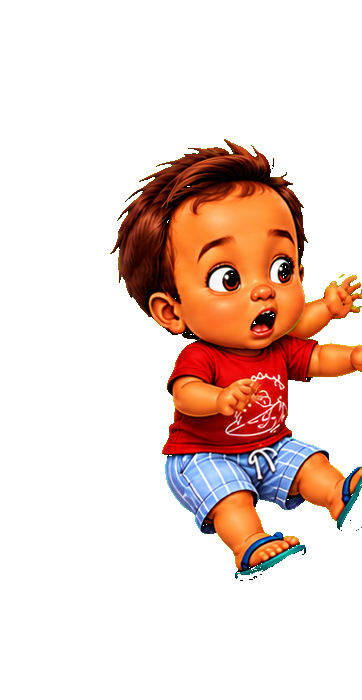
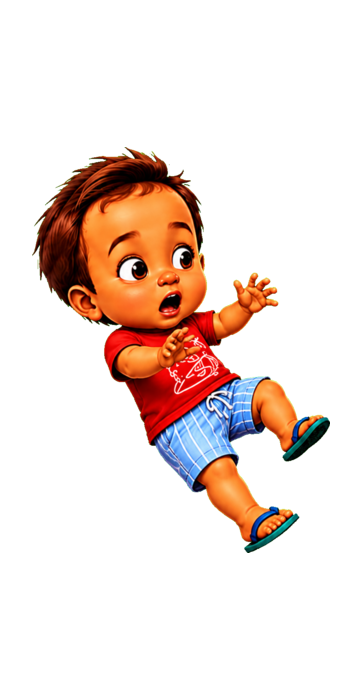
Ajusta o atlas para a arte regerada e normaliza escala e chão
Os 12 PNGs trocados vieram sem corte nas bordas, que era o problema
original: nenhum pixel encosta na borda em nenhum arquivo do conjunto
agora. Mas vieram desenhados menores e desalinhados verticalmente, o
que fazia o personagem encolher e flutuar no meio da animação.

Cada quadro do ATLAS passa a ter duas caixas:

  f = de onde ler os pixels no PNG
  g = onde o quadro deve aparecer, quando difere de f

Para quadro sem problema, g não existe e vale f. Para os regerados, g
aplica o fator medido comparando com a versão anterior do mesmo arquivo,
que está no histórico do git: como a pose é a mesma, a razão entre as
alturas dá a escala e a diferença das bases dá o desalinhamento. Assim a
correção não depende de eu chutar valor a olho, e não toca na arte.

Conferido quadro a quadro renderizando cada sequência com a linha do
chão: base entre 0 e -19px do chão (o -19 é a pose inclinada dela no
primeiro quadro, igual ao original), alturas consistentes dentro de cada
animação, e o abraço final sem o corte no braço do bebê.

diff --git a/game.js b/game.js
@@ -144,26 +144,30 @@ const BG_TOP = CFG.GROUND_Y - CFG.BG_H * CFG.BG_GROUND_FRAC;
 /* ========================================================================== *
  * 2. ATLAS — recorte real de cada PNG
  *    u = retângulo de referência da sequência (união dos quadros)
- *    f = [x, y, w, h] do corpo em cada quadro (sobras soltas já removidas)
+ *    f = [x, y, w, h] do corpo em cada quadro: de ONDE ler os pixels
+ *        (sobras soltas nas bordas já removidas)
+ *    g = onde esse quadro deve APARECER, quando difere de f. Existe porque
+ *        alguns arquivos foram regerados fora de escala e desalinhados: g
+ *        devolve o tamanho e a linha do chão corretos sem tocar na arte.
  *    p = raiz quadrada da área desenhada, usada para normalizar o tamanho
  *    Valores medidos direto do canal alfa dos arquivos.
  * ========================================================================== */
 const ATLAS = {
   'filho-comemorando-fuga': { n: 5, u: [31,39,322,566], p: 265.3, f: [[39,122,311,480],[88,98,263,506],[70,99,278,506],[68,39,285,480],[31,128,291,472]] },
-  'filho-correndo-jogando-brinquedo': { n: 5, u: [0,112,355,477], p: 250.0, f: [[27,112,264,471],[0,116,292,454],[0,125,295,460],[4,130,351,459],[52,129,268,459]] },
-  'filho-correndo-jogando-fralda': { n: 5, u: [0,75,393,515], p: 272.1, f: [[30,75,283,509],[0,79,314,490],[0,88,312,498],[0,94,393,496],[39,93,293,497]] },
+  'filho-correndo-jogando-brinquedo': { n: 5, u: [0,112,342.8,477], p: 251.3, f: [[27,112,264,471],[0,116,292,454],[0,125,295,460],[32,148,291,404],[52,129,268,459]], g: [[27,112,264,471],[0,116,292,454],[0,125,295,460],[12.2,130,330.6,459],[52,129,268,459]] },
+  'filho-correndo-jogando-fralda': { n: 5, u: [0,75,375.8,515], p: 272.5, f: [[30,75,283,509],[0,79,314,490],[0,88,312,498],[32,122,329,455],[39,93,293,497]], g: [[30,75,283,509],[0,79,314,490],[0,88,312,498],[17.2,94,358.6,496],[39,93,293,497]] },
   'filho-correndo-rindo': { n: 4, u: [0,47,408,579], p: 313.3, f: [[0,50,341,568],[52,48,356,578],[18,47,386,569],[1,52,377,562]] },
   'filho-corrento': { n: 6, u: [7,92,245,438], p: 229.3, f: [[23,110,219,410],[15,96,232,407],[20,92,232,406],[55,125,189,405],[31,108,211,412],[7,109,237,407]] },
   'filho-parado': { n: 4, u: [38,40,326,619], p: 311.1, f: [[112,41,252,618],[94,40,247,619],[66,41,242,618],[38,41,252,618]] },
   'filho-sendo-pego': { n: 5, u: [29,43,366,588], p: 290.9, f: [[29,99,366,532],[31,90,364,539],[43,85,318,545],[50,56,290,502],[64,43,294,514]] },
-  'filho-tropecando': { n: 6, u: [25,122,337,463], p: 242.7, f: [[42,124,313,461],[110,139,252,442],[100,212,262,370],[59,207,299,369],[74,216,261,356],[25,122,309,458]] },
-  'mae-atingida-por-objeto': { n: 5, u: [14,68,421,535], p: 299.7, f: [[79,81,338,521],[40,68,395,534],[47,74,339,523],[15,76,382,527],[14,83,339,519]] },
-  'mae-cansada': { n: 5, u: [0,79,397,540], p: 299.0, f: [[58,79,338,533],[87,107,310,511],[59,86,323,533],[26,221,326,396],[0,205,342,409]] },
+  'filho-tropecando': { n: 6, u: [15.9,122,342.1,463], p: 243.4, f: [[42,124,313,461],[32,147,298,406],[32,183,298,334],[59,207,299,369],[74,216,261,356],[25,122,309,458]], g: [[42,124,313,461],[18.8,139,324.4,442],[15.9,212,330.1,370],[59,207,299,369],[74,216,261,356],[25,122,309,458]] },
+  'mae-atingida-por-objeto': { n: 5, u: [10.7,68,413.6,535], p: 300.5, f: [[79,81,338,521],[32,110,371,479],[47,74,339,523],[15,76,382,527],[14,83,339,519]], g: [[79,81,338,521],[10.7,68,413.6,534],[47,74,339,523],[15,76,382,527],[14,83,339,519]] },
+  'mae-cansada': { n: 5, u: [0,79,396,540], p: 298.2, f: [[58,79,338,533],[32,80,333,539],[59,86,323,533],[26,221,326,396],[0,205,342,409]], g: [[58,79,338,533],[40.6,107,315.7,511],[59,86,323,533],[26,221,326,396],[0,205,342,409]] },
   'mae-correndo': { n: 6, u: [0,96,336,493], p: 269.8, f: [[31,104,305,476],[31,96,292,462],[40,117,270,468],[16,105,282,456],[0,127,288,455],[10,123,284,466]] },
   'mae-parada': { n: 4, u: [25,25,390,642], p: 325.8, f: [[127,25,288,642],[96,28,286,639],[52,26,286,641],[25,49,288,618]] },
-  'mae-pegando-filho': { n: 5, u: [28,52,407,548], p: 298.6, f: [[28,76,407,484],[143,119,292,457],[108,55,327,542],[102,55,317,545],[58,52,305,548]] },
+  'mae-pegando-filho': { n: 5, u: [-18.8,52,472.5,548], p: 306.5, f: [[32,160,371,380],[32,103,371,494],[32,72,371,556],[102,55,317,545],[58,52,305,548]], g: [[-18.8,76,472.5,484],[45.9,119,343.2,457],[36.7,55,361.7,542],[102,55,317,545],[58,52,305,548]] },
   'mae-pulando': { n: 5, u: [26,36,377,576], p: 265.5, f: [[107,203,296,400],[51,121,324,447],[52,36,323,416],[26,129,356,448],[43,193,301,419]] },
-  'mae-tropecando': { n: 6, u: [0,119,362,465], p: 265.5, f: [[31,119,331,465],[0,124,352,443],[3,144,359,435],[28,241,334,325],[12,216,322,356],[0,121,302,462]] },
+  'mae-tropecando': { n: 6, u: [-35,119,432.1,465], p: 272.5, f: [[32,175,298,350],[0,124,352,443],[32,200,298,300],[32,201,298,298],[12,216,322,356],[0,121,302,462]], g: [[-17,119,395.9,465],[0,124,352,443],[-35,144,432.1,435],[18.5,241,325,325],[12,216,322,356],[0,121,302,462]] },
   'obstaculo-almofadas': { n: 1, u: [30,30,1138,617], p: 691.9, f: [[30,30,1138,617]] },
   'obstaculo-banquinho': { n: 1, u: [30,30,964,625], p: 638.1, f: [[30,30,964,625]] },
   'obstaculo-brinquedos': { n: 1, u: [30,30,907,395], p: 488.7, f: [[30,30,907,395]] },
@@ -312,10 +316,11 @@ function buildFrameCache(assets) {
     const anchorY = a.u[1] + a.u[3];
     const list = [];
     for (let i = 0; i < a.n; i++) {
-      const f = a.f[i];
+      const f = a.f[i];              // de onde ler no PNG
+      const g = a.g ? a.g[i] : f;    // onde deve aparecer (corrige arte fora de escala)
       const img = assets.get(frameFile(seq, i));
-      const w = Math.max(1, Math.round(f[2] * s));
-      const h = Math.max(1, Math.round(f[3] * s));
+      const w = Math.max(1, Math.round(g[2] * s));
+      const h = Math.max(1, Math.round(g[3] * s));
       const cv = document.createElement('canvas');
       cv.width = w;
       cv.height = h;
@@ -323,7 +328,7 @@ function buildFrameCache(assets) {
       c.imageSmoothingEnabled = true;
       c.imageSmoothingQuality = 'high';
       if (img) c.drawImage(img, f[0], f[1], f[2], f[3], 0, 0, w, h);
-      list.push({ c: cv, dx: (f[0] - anchorX) * s, dy: (f[1] - anchorY) * s, w, h });
+      list.push({ c: cv, dx: (g[0] - anchorX) * s, dy: (g[1] - anchorY) * s, w, h });
     }
     FRAMES[seq] = list;
   }
